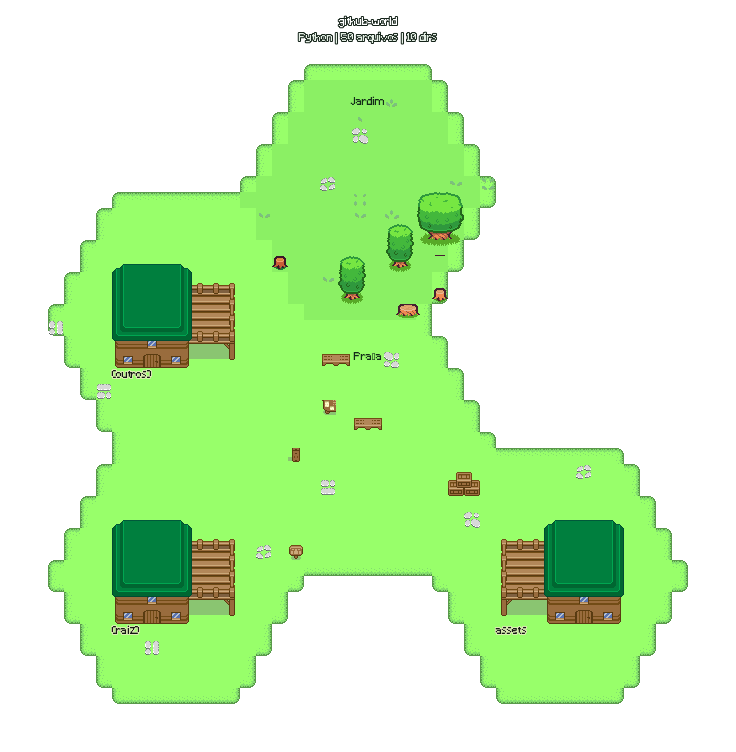
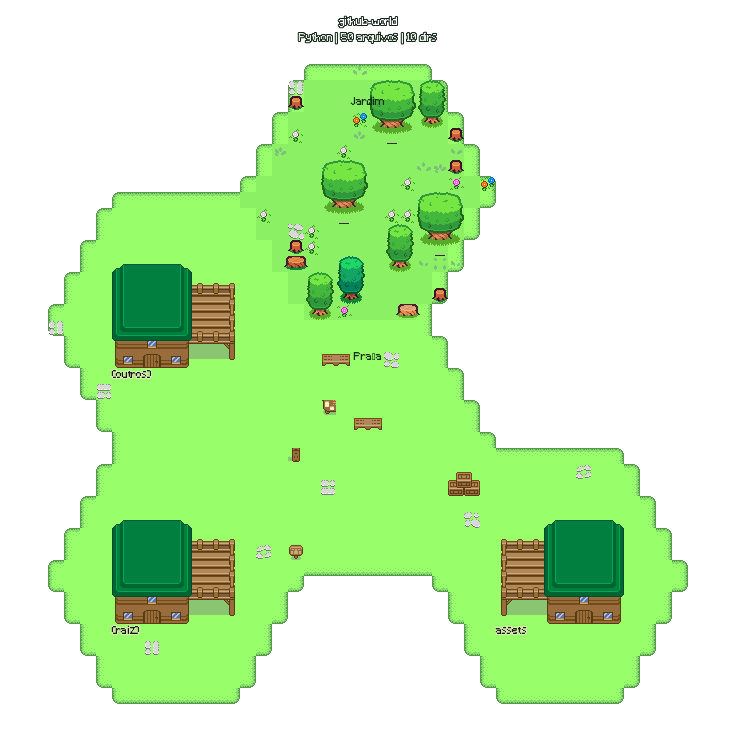
feat: adiciona flores configuráveis à floresta

diff --git a/assets.py b/assets.py
@@ -722,6 +722,12 @@ assets.add(Tile("floor7", grama, col=1, row=6, width=3, height=4))
 assets.add(Tile("floor8", grama, col=5, row=3, width=1, height=1))
 assets.add(Tile("floor9", grama, col=3, row=3, width=1, height=1))
 assets.add(Tile("floor10", grama, col=4, row=3, width=1, height=1))
+# Flores da linha 3, colunas 3–5 do tileset de grama (índices zero-based).
+# Mantemos os IDs floor8–floor10 por compatibilidade e oferecemos nomes claros
+# para a composição controlada da floresta.
+assets.add(Tile("flower1", grama, col=3, row=3))
+assets.add(Tile("flower2", grama, col=4, row=3))
+assets.add(Tile("flower3", grama, col=5, row=3))
 assets.add(Tile("grass1", grama, col=10, row=1))
 assets.add(Tile("grass2", grama, col=11, row=1))
 assets.add(Tile("grass3", grama, col=12, row=1))
@@ -731,7 +737,8 @@ assets.add(Tile("grass6", grama, col=11, row=2))
 assets.add(Tile("grass7", grama, col=12, row=2))
 assets.add(Tile("grass8", grama, col=13, row=2))
 
-ASSET_GLOSSARY.update({"t": "Árvores", "wood": "Madeira antiga", "floor": "Pisos antigos", "grass": "Grama antiga", "y": "Mapa"})
+DECORATION_GROUPS["flowers"] = ["flower1", "flower2", "flower3"]
+ASSET_GLOSSARY.update({"t": "Árvores", "flower": "Flores", "wood": "Madeira antiga", "floor": "Pisos antigos", "grass": "Grama antiga", "y": "Mapa"})
 
 # Centro do bloco de terra; e1 é decorativo no tileset consolidado.
 assets.add(Tile('path1', Ilhas, col=1, row=6))

diff --git a/tests/test_world.py b/tests/test_world.py
@@ -10,7 +10,7 @@ from github_activity import GitHubClient
 from repo_profile import DirectoryProfile, profile_repository
 from layout import DIRECTIONS, build_layout
 from renderer import save_world
-from visual_config import tree_assets_for, tree_counts
+from visual_config import flower_assets_for, flower_density, tree_assets_for, tree_counts
 
 
 def repository(name='example', count=6):
@@ -152,6 +152,23 @@ class ProfileTests(unittest.TestCase):
         self.assertEqual(len(selected), 6)
         self.assertTrue(set(selected[:2]) <= {'t1', 't2'})
         self.assertTrue(set(selected[-3:]) <= {'t7', 't8'})
+
+    def test_flower_density_uses_rules_and_repository_override(self):
+        profile = profile_repository(repository(name='custom', count=3))
+        config = {
+            'vegetation': {
+                'flowers': {
+                    'assets': ['flower1', 'flower2', 'flower3'],
+                    'default_density': 2,
+                    'rules': [{'when': {'min_files': 40}, 'density': 5}],
+                    'repositories': {'custom': {'density': 7}},
+                }
+            }
+        }
+        self.assertEqual(flower_density(profile, config), 7)
+        selected = flower_assets_for(profile, config)
+        self.assertEqual(len(selected), 7)
+        self.assertTrue(set(selected) <= {'flower1', 'flower2', 'flower3'})
 
 
 class CollectionTests(unittest.TestCase):

diff --git a/visual_config.py b/visual_config.py
@@ -64,3 +64,26 @@ def tree_assets_for(profile, config=None):
             raise ValueError(f'Nenhum asset configurado para vegetation.assets.{category}')
         selected.extend(rng.choice(variants) for _ in range(counts[category]))
     return selected
+
+
+def flower_density(profile, config=None):
+    vegetation = (config or load_visual_config()).get('vegetation', {})
+    flowers = vegetation.get('flowers', {})
+    density = flowers.get('default_density', 0)
+    for rule in flowers.get('rules', []):
+        if rule_matches(profile, rule.get('when', {})):
+            density = rule.get('density', density)
+    override = flowers.get('repositories', {}).get(profile.name, {})
+    density = override.get('density', density)
+    return max(0, min(40, int(density)))
+
+
+def flower_assets_for(profile, config=None):
+    config = config or load_visual_config()
+    flowers = config.get('vegetation', {}).get('flowers', {})
+    variants = flowers.get('assets', [])
+    density = flower_density(profile, config)
+    if density and not variants:
+        raise ValueError('Nenhum asset configurado para vegetation.flowers.assets')
+    rng = random.Random(f'{profile.name}/flower-variants')
+    return [rng.choice(variants) for _ in range(density)]

diff --git a/layout.py b/layout.py
@@ -5,7 +5,7 @@ import hashlib
 import random
 from assets import assets, DECORATION_GROUPS
 from repo_profile import DirectoryProfile
-from visual_config import tree_assets_for
+from visual_config import flower_assets_for, tree_assets_for
 
 TILE_SIZE = 16
 DIRECTIONS = ((1, 0), (1, -1), (0, -1), (-1, 0), (-1, 1), (0, 1))
@@ -167,6 +167,7 @@ def build_colony(profile):
     connect(island,modules[0].anchor,island.entrance)
     connect(island,modules[0].anchor,island.exit)
     trees = tree_assets_for(profile)
+    flowers = flower_assets_for(profile)
     for m in modules:
         rng = random.Random(f'{profile.name}/{m.key}')
         def decorate(names, amount):
@@ -189,6 +190,7 @@ def build_colony(profile):
                         break
         if m.kind == 'garden':
             decorate_exact(trees)
+            decorate_exact(flowers)
             decorate([f'f{i}' for i in range(1,11)],6 + min(profile.max_depth,3))
         elif m.kind == 'plaza':
             decorate(DECORATION_GROUPS['activity'],min(8,1+profile.recent_commits//5) if profile.recent_commits else 0)

diff --git a/README.md b/README.md
@@ -98,6 +98,20 @@ repositories:
 
 As quantidades ficam fixas pelo YAML. Para cada item, o gerador escolhe de forma determinística uma das duas variantes e procura aleatoriamente uma posição válida no jardim. Isso cria variedade sem perder o controle da composição. A API fornece as métricas usadas pelas regras; ela não precisa reescrever o YAML. Depois de editar, use `python3 generate.py --offline` para conferir rapidamente.
 
+As flores usam os tiles `(3,3)`, `(4,3)` e `(5,3)` de `assets/grama.png`, registrados como `flower1`, `flower2` e `flower3`. A quantidade é controlada separadamente pela densidade:
+
+```yaml
+flowers:
+  assets: [flower1, flower2, flower3]
+  default_density: 5
+
+  repositories:
+    github-world:
+      density: 12
+```
+
+`default_density` é a quantidade padrão. `rules` pode alterar esse valor usando as mesmas condições das árvores, e `repositories.NOME.density` define a quantidade exata para um repositório. A escolha das variantes e posições é aleatória, mas estável para o mesmo nome de projeto.
+
 Quando há mais de três bairros, os dois com mais arquivos aparecem individualmente e os demais são somados na casa `(outros)`. A interpretação dos dados mantém até seis grupos; o layout compacto reúne esses grupos em até três casas sem perder a contagem de arquivos. Arquivos da raiz formam o bairro `(raiz)`. Repositórios vazios recebem uma construção com o rótulo `(sem arquivos)`.
 
 Os assets de casas 1 e 2 têm a mesma área de recorte, mas desenhos diferentes; a variante 3 é maior. As métricas orientam escolhas visuais, sem representar uma medida formal de qualidade do projeto. Dependências são contadas por manifestos detectados, sem analisar pacotes individuais.
